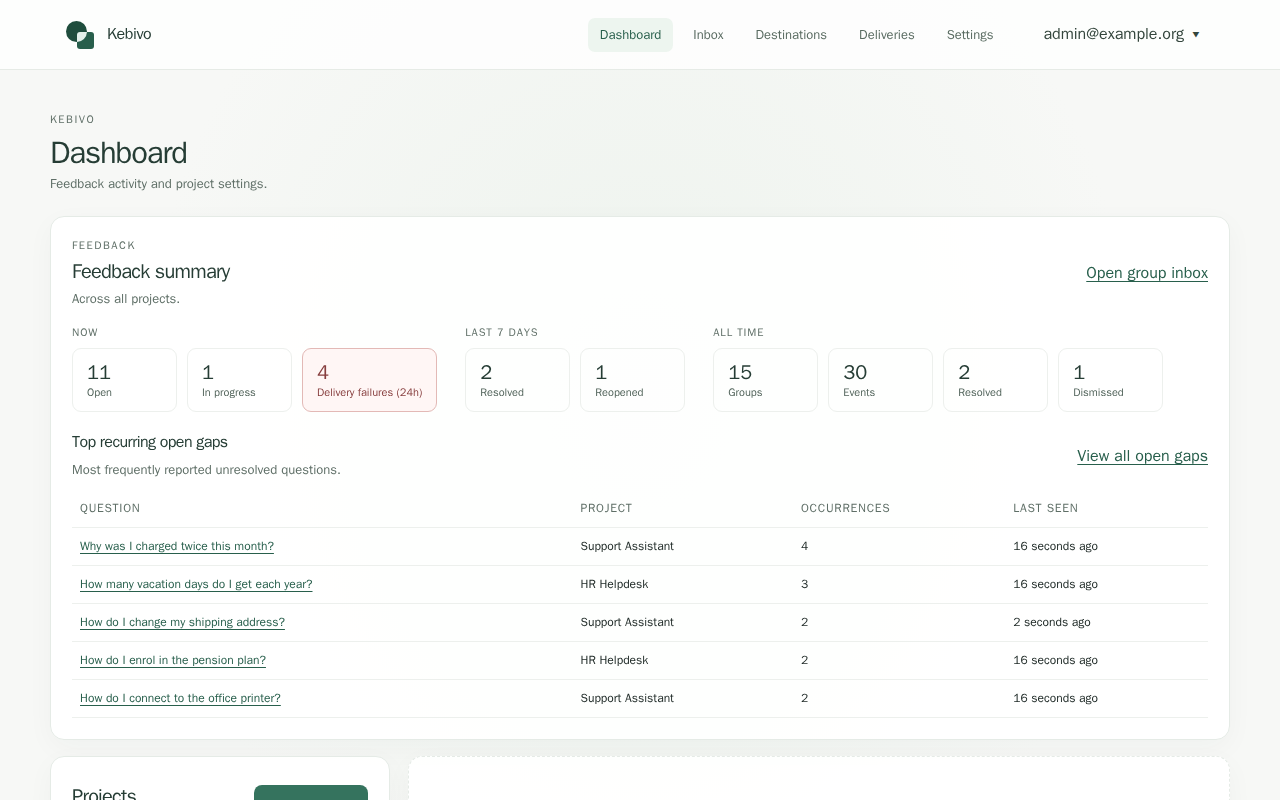
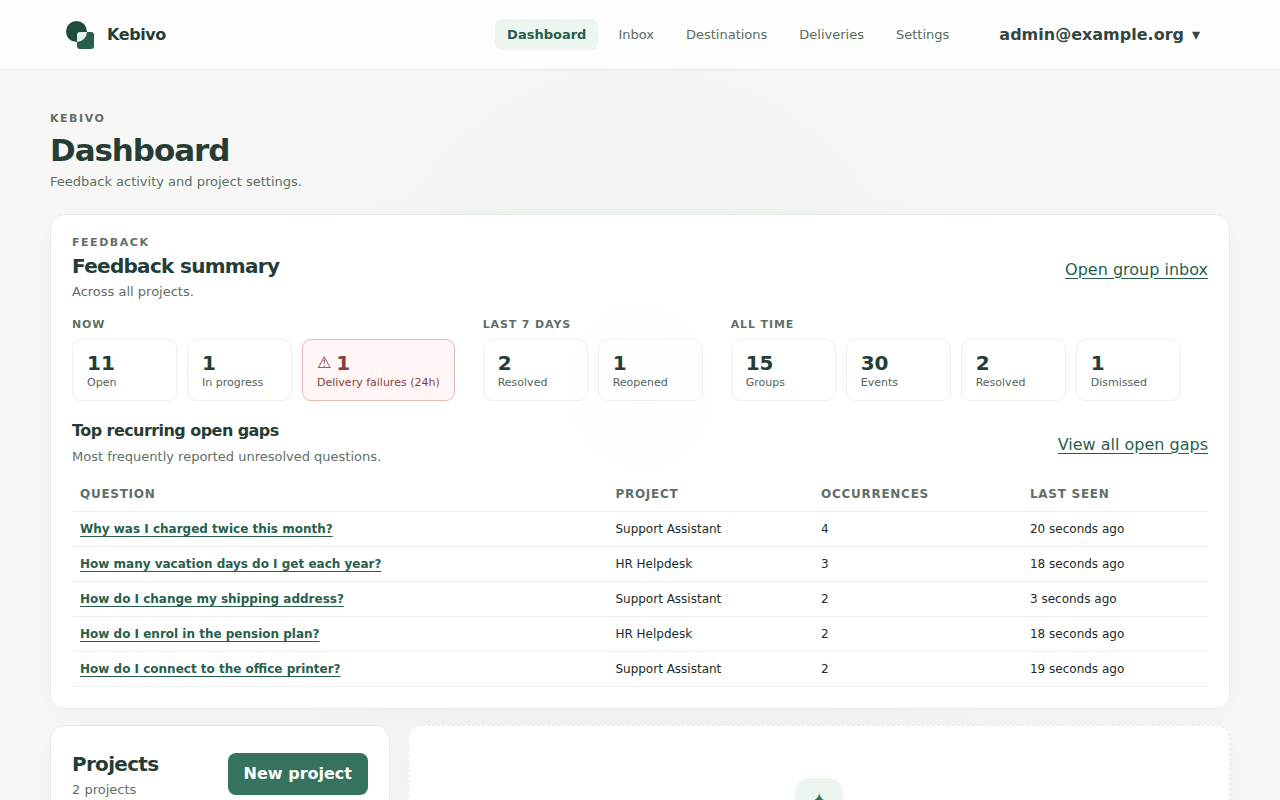
Make dashboard cues work without colour and keep sample labels whole
The delivery-failure tile now shows a warning icon when deliveries
failed, so the state no longer depends on colour alone. On phones the
sample banner keeps its buttons in source order, and Remove keeps the
accessible name "Remove sample data" when the long label is hidden.

A project name with no usable Latin letters now leaves a hint to type a
slug, and common letters such as ß, Ł and Ø are transliterated.

diff --git a/frontend/src/main.tsx b/frontend/src/main.tsx
@@ -400,17 +400,19 @@ function ArchivedProjects({ projects, onRestore }: { projects: Project[]; onRest
   const archived = projects.filter((p) => p.archived_at);
   return <div className="archived-list"><h3>Archived</h3>{archived.length === 0 ? <p className="subtle">No archived projects.</p> : archived.map((project) => <div className="archived-item" key={project.id}><span>{project.name}</span><button className="text-button" onClick={() => onRestore(project)}>Restore</button></div>)}</div>;
 }
+const slugLetters: Record<string, string> = { ß: 'ss', ł: 'l', ø: 'o', đ: 'd', ð: 'd', þ: 'th', æ: 'ae', œ: 'oe', ı: 'i' };
 function slugFromName(name: string) {
-  return name.normalize('NFKD').replace(/[\u0300-\u036f]/g, '').toLowerCase().replace(/[^a-z0-9]+/g, '-').replace(/^-+|-+$/g, '').slice(0, 100).replace(/-+$/, '');
+  return name.normalize('NFKD').replace(/[\u0300-\u036f]/g, '').toLowerCase().replace(/[ßłøđðþæœı]/g, c => slugLetters[c]).replace(/[^a-z0-9]+/g, '-').replace(/^-+|-+$/g, '').slice(0, 100).replace(/-+$/, '');
 }
 function ProjectForm({ project, busy, onCancel, onSubmit }: { project: Project | null; busy: boolean; onCancel: () => void; onSubmit: (event: React.FormEvent<HTMLFormElement>) => void }) {
   const firstRun = useFirstRun();
   const [slug, setSlug] = React.useState(project?.slug ?? '');
   const [slugEdited, setSlugEdited] = React.useState(Boolean(project));
+  const [hasName, setHasName] = React.useState(false);
   return <section className="panel" aria-labelledby="project-form-title"><div className="panel-heading"><div><div className="eyebrow">{project ? 'EDIT PROJECT' : 'NEW PROJECT'}</div><h2 id="project-form-title">{project ? 'Project settings' : 'Create a project'}</h2></div></div>
     {firstRun?.sample?.present && !firstRun.sample.has_real_projects && !project && <p className="scope-note">Create a project for your app. It gets its own token; the sample projects can't have one.</p>}
-    <form className="project-form" onSubmit={onSubmit}><label htmlFor="project-name">Name</label><input id="project-name" name="name" autoFocus={!project} defaultValue={project?.name ?? ''} maxLength={200} required onChange={event => { if (!slugEdited) setSlug(slugFromName(event.target.value)); }} />
-      <label htmlFor="project-slug">Slug</label><input id="project-slug" name="slug" value={slug} onChange={event => { setSlugEdited(true); setSlug(event.target.value); }} pattern="[a-zA-Z0-9](?:[a-zA-Z0-9\-]{0,98}[a-zA-Z0-9])?" aria-describedby="slug-help" required /><small id="slug-help" className="subtle">Lowercase letters, numbers, and internal hyphens.{!slugEdited && slug && <> From the name: <code>{slug}</code></>}</small>
+    <form className="project-form" onSubmit={onSubmit}><label htmlFor="project-name">Name</label><input id="project-name" name="name" autoFocus={!project} defaultValue={project?.name ?? ''} maxLength={200} required onChange={event => { setHasName(Boolean(event.target.value.trim())); if (!slugEdited) setSlug(slugFromName(event.target.value)); }} />
+      <label htmlFor="project-slug">Slug</label><input id="project-slug" name="slug" value={slug} onChange={event => { setSlugEdited(true); setSlug(event.target.value); }} pattern="[a-zA-Z0-9](?:[a-zA-Z0-9\-]{0,98}[a-zA-Z0-9])?" aria-describedby="slug-help" required /><small id="slug-help" className="subtle">Lowercase letters, numbers, and internal hyphens.{!slugEdited && slug && <> From the name: <code>{slug}</code></>}{!slugEdited && !slug && hasName && <> Can't make one from this name. Type a slug.</>}</small>
       <label htmlFor="project-description">Description <span className="subtle">(optional)</span></label><textarea id="project-description" name="description" defaultValue={project?.description ?? ''} maxLength={5000} rows={3} />
       <fieldset><legend>Project policies</legend><label className="checkbox-row"><input type="checkbox" name="corrections" defaultChecked={project?.settings.corrections?.enabled ?? false} /> Enable correction feedback</label><p className="help-text">Tokens also need the correction scope before an integration can submit corrections.</p><label htmlFor="deduplication-mode">Deduplication mode</label><select id="deduplication-mode" name="deduplication_mode" defaultValue={project?.settings.deduplication?.mode ?? (project?.settings.deduplication?.enabled === false ? 'disabled' : 'exact')}><option value="disabled">Disabled</option><option value="exact">Exact</option><option value="semantic" disabled>Semantic (Configure an LLM provider first)</option></select><p className="help-text">{exactHelp}</p><p className="help-text">Add an LLM provider under LLM providers first to enable Semantic.</p></fieldset>
       {project && <><label className="checkbox-row"><input type="checkbox" name="is_active" defaultChecked={project.is_active} /> Project is active</label></>}

diff --git a/frontend/src/FirstRun.tsx b/frontend/src/FirstRun.tsx
@@ -36,7 +36,7 @@ function SampleBanner({ sample, refresh, navigate, announce }: { sample: SampleS
     <section className="sample-banner" aria-label="Sample data">
       <p className="sample-long">{sample.has_real_projects ? <><strong>Sample data is still here.</strong> Remove it when you've seen enough. Your own projects and feedback stay.</> : <><strong>You're looking at sample data.</strong> The projects, feedback and destinations marked Sample are made up. Sample destinations never send anything.</>}</p>
       <p className="sample-short"><strong>{sample.has_real_projects ? 'Sample data is still here.' : 'Sample data.'}</strong></p>
-      <div className="sample-actions">{!sample.has_real_projects && <button type="button" onClick={() => navigate('/?create=1')}>Connect your own app</button>}<button ref={opener} className="quiet-button sample-remove" type="button" onClick={open}>Remove<span className="sample-long"> sample data</span></button></div>
+      <div className="sample-actions">{!sample.has_real_projects && <button type="button" onClick={() => navigate('/?create=1')}>Connect your own app</button>}<button ref={opener} className="quiet-button sample-remove" type="button" aria-label="Remove sample data" onClick={open}>Remove<span className="sample-long"> sample data</span></button></div>
     </section>
     <dialog className="sample-dialog" ref={dialog} aria-labelledby="sample-dialog-title" aria-describedby="sample-dialog-description" onCancel={event => { if (busy) event.preventDefault(); }} onClick={event => { if (event.target === dialog.current && !busy) dialog.current.close(); }} onClose={() => { setError(''); requestAnimationFrame(() => opener.current?.focus()); }}>
       <h2 id="sample-dialog-title">Remove sample data?</h2><p id="sample-dialog-description">This deletes the sample projects, feedback groups, notes and destinations. Anything you added yourself stays. Sample data can be loaded again only while your inbox has no real feedback.</p>

diff --git a/frontend/src/style.css b/frontend/src/style.css
@@ -199,6 +199,7 @@ a.summary-tile:hover { border-color:#9bb7a6; background:#f7faf7; }
 .summary-tile.danger { border-color:#e3b9b6; background:#fff6f5; color:#873e3e; }
 .summary-tile.danger strong { color:#873e3e; }
 a.summary-tile.danger:hover { border-color:#c98d89; background:#fff0ef; }
+.summary-alert { margin-right:5px; font-style:normal; font-size:16px; vertical-align:2px; }
 .summary-skeleton { display:inline-block; width:2ch; height:.8em; border-radius:4px; background:#e6ece7; vertical-align:middle; }
 .recurring-skeleton { min-height:150px; }
 .app-link, .recurring-table a { color:#285f4c; text-decoration:underline; text-underline-offset:3px; }
@@ -339,7 +340,6 @@ h1[tabindex="-1"]:focus, h2[tabindex="-1"]:focus { outline:none; }
   .sample-banner .sample-long { display:none; }
   .sample-banner .sample-short { display:block; margin-right:2px; }
   .sample-actions { width:auto; flex-direction:row; gap:0; }
-  .sample-actions .sample-remove { order:-1; }
   .sample-actions button, .sample-actions button.quiet-button { width:auto; min-height:44px; padding:0 6px; border:0; background:transparent; color:#285f4c; text-decoration:underline; text-underline-offset:3px; }
   .sample-actions button:hover:not(:disabled) { background:#e8f0ea; color:#1d4f3b; }
   main { padding-top:16px; }

diff --git a/frontend/src/DashboardSummary.tsx b/frontend/src/DashboardSummary.tsx
@@ -38,7 +38,7 @@ export function FirstRunChecklist({ projects, navigate, onShownChange }: { proje
 type Tile = { label: string; hint?: string; count?: number; url?: string; danger?: boolean };
 function TileGroup({ id, title, tiles, navigate }: { id: string; title: string; tiles: Tile[]; navigate: (url: string) => void }) {
   return <div className="summary-group" role="group" aria-labelledby={id}><h3 id={id}>{title}</h3><div className="summary-counts">{tiles.map(tile => {
-    const body = <><strong>{tile.count ?? <span className="summary-skeleton" />}</strong><span>{tile.label}{tile.hint && <span className="sr-only"> {tile.hint}</span>}</span></>;
+    const body = <><strong>{tile.danger && <i className="summary-alert" aria-hidden="true">⚠&#xFE0E;</i>}{tile.count ?? <span className="summary-skeleton" />}</strong><span>{tile.label}{tile.hint && <span className="sr-only"> {tile.hint}</span>}</span></>;
     const className = tile.danger ? 'summary-tile danger' : 'summary-tile';
     return tile.url ? <a key={tile.label} className={className} href={tile.url} onClick={e => { e.preventDefault(); navigate(tile.url!); }}>{body}</a> : <div key={tile.label} className={className}>{body}</div>;
   })}</div></div>;

diff --git a/frontend/src/DashboardSummary.test.tsx b/frontend/src/DashboardSummary.test.tsx
@@ -58,6 +58,8 @@ describe('Dashboard delivery failure link', () => {
     expect([...now.querySelectorAll('.summary-tile')].map(tile => tile.querySelector('span')?.textContent)).toEqual(['Open', 'In progress', 'Delivery failures (24h)']);
     expect(now.querySelector('a[href="/inbox?status=in_progress"]')).not.toBeNull();
     expect(now.querySelector('a[href="/deliveries?status=failed"]')?.classList.contains('danger')).toBe(true);
+    expect(now.querySelector('a[href="/deliveries?status=failed"] .summary-alert')?.getAttribute('aria-hidden')).toBe('true');
+    expect(now.querySelectorAll('.summary-alert')).toHaveLength(1);
     expect(container.querySelector('[aria-labelledby="summary-total"] a[href="/inbox?status=dismissed"]')).not.toBeNull();
   });
 
@@ -69,6 +71,7 @@ describe('Dashboard delivery failure link', () => {
     });
     expect(container.querySelector('a[href="/deliveries?status=failed"]')).toBeNull();
     expect(container.querySelector('.summary-tile.danger')).toBeNull();
+    expect(container.querySelector('.summary-alert')).toBeNull();
   });
 
   it('reserves the tile and recurring-gap layout while loading and announces it', async () => {

diff --git a/frontend/src/app.test.tsx b/frontend/src/app.test.tsx
@@ -99,6 +99,11 @@ describe('authenticated dashboard', () => {
     expect(container.querySelector('#slug-help')?.textContent).toBe('Lowercase letters, numbers, and internal hyphens. From the name: support-bot');
     await act(async () => { setValue(name, '  Café FAQ: v2!  '); });
     expect(slug().value).toBe('cafe-faq-v2');
+    await act(async () => { setValue(name, 'Łódź Straße Ørsted'); });
+    expect(slug().value).toBe('lodz-strasse-orsted');
+    await act(async () => { setValue(name, '日本語'); });
+    expect(slug().value).toBe('');
+    expect(container.querySelector('#slug-help')?.textContent).toBe("Lowercase letters, numbers, and internal hyphens. Can't make one from this name. Type a slug.");
     await act(async () => { setValue(slug(), 'faq'); });
     await act(async () => { setValue(name, 'Something else'); });
     expect(slug().value).toBe('faq');

diff --git a/frontend/src/FirstRun.test.tsx b/frontend/src/FirstRun.test.tsx
@@ -107,6 +107,7 @@ describe('sample banner removal', () => {
     await act(async () => { root.render(<FirstRunProvider navigate={navigate}><header>Nav</header><FirstRunNotice /><main><h1 tabIndex={-1}>Inbox</h1></main></FirstRunProvider>); await new Promise(resolve => setTimeout(resolve, 0)); });
     expect(host.textContent).toContain("You're looking at sample data.");
     const remove = [...host.querySelectorAll('button')].find(button => button.textContent === 'Remove sample data')!;
+    expect(remove.getAttribute('aria-label')).toBe('Remove sample data');
     await act(async () => { remove.click(); });
     expect(host.querySelector('dialog')?.hasAttribute('open')).toBe(true);
     await act(async () => { host.querySelector<HTMLButtonElement>('dialog button')!.click(); });
